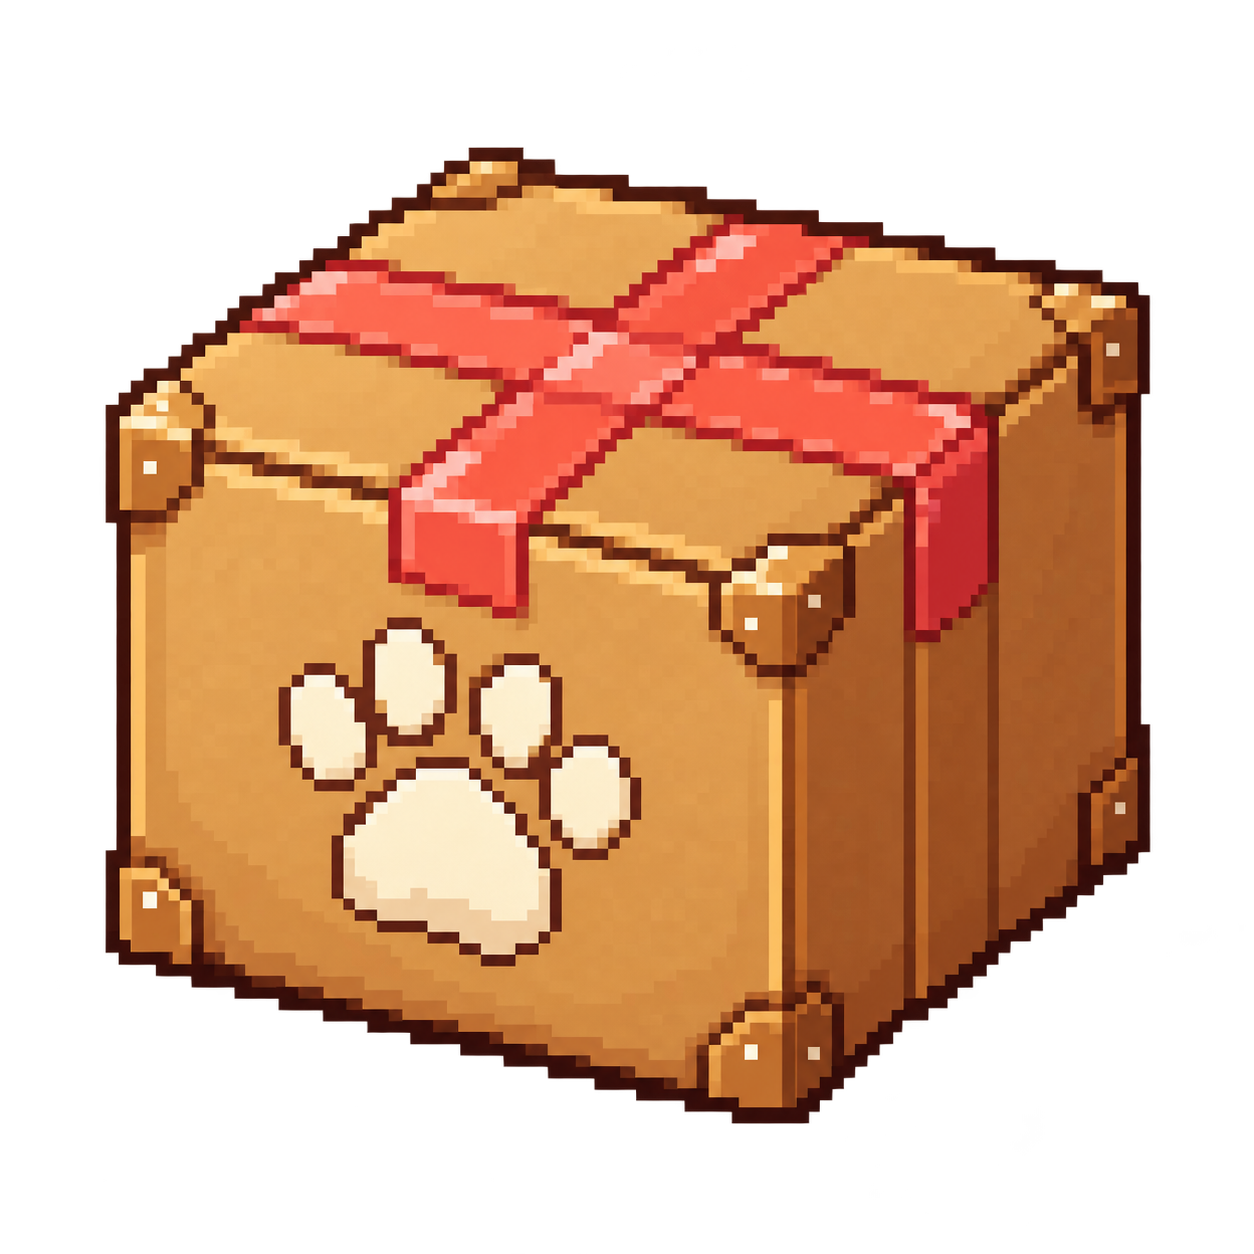
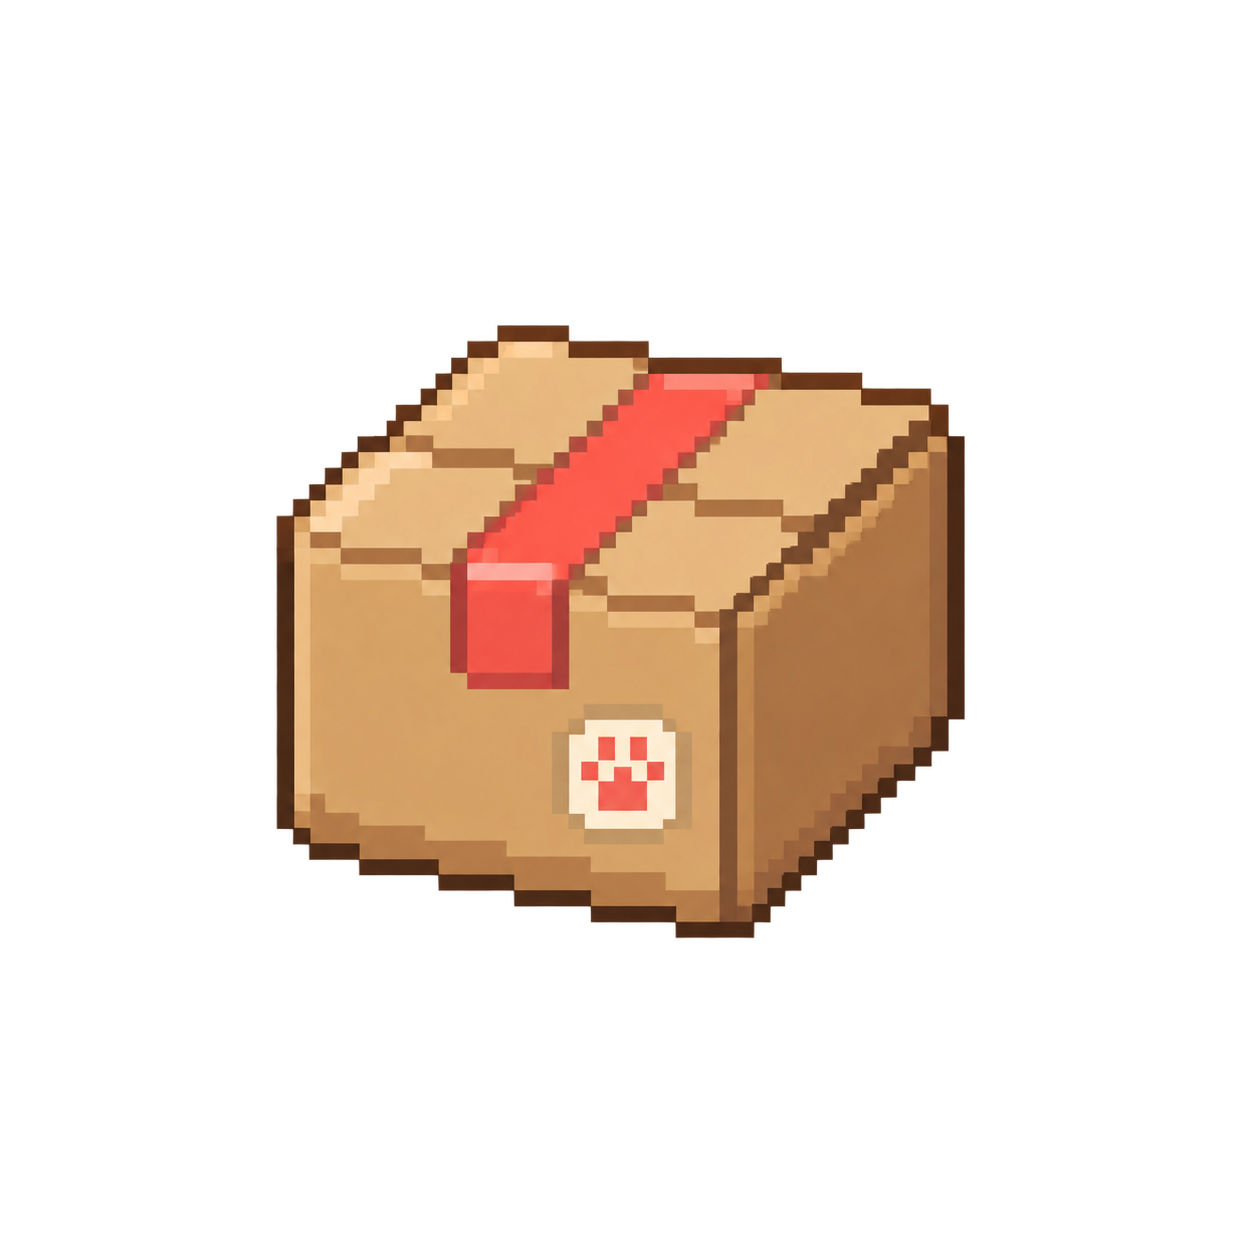
fix: align delivery parcel and growth skill

diff --git a/.codex/skills/growth-pixel-character/SKILL.md b/.codex/skills/growth-pixel-character/SKILL.md
@@ -9,7 +9,6 @@ Produce four independently usable sprites named `baby`, `child`, `teen`, and `ad
 
 Read [references/final-style-contract.md](references/final-style-contract.md) before extracting, generating, or composing a set.
 Read [references/pixel-pet-image-harness.yaml](references/pixel-pet-image-harness.yaml) when generating a new animal, checking cross-species consistency, creating a pet-room background, or building a character-selection popup.
-For pet animation sprites or sprite sheets, also read the animation contract at `../dot-image/references/animation.md` before generating, editing, or accepting frames.
 
 ## Independent Asset Boundary
 
@@ -83,33 +82,6 @@ python .codex/skills/dot-image/scripts/dot_harness.py object pet-food-bowl.png \
   --style-profile auto \
   --theme soft-modern-retro \
   --view side \
-  --preserve-source-palette
-```
-
-## Build Pet Animation Sprites
-
-1. Read `../dot-image/references/animation.md` before creating or editing walk, roll, idle, or other pet animation frames.
-2. Lock the source pet's facing direction before drawing motion. Every source frame must keep the head, torso, hips, near and far limb order, and tail base in that same orientation. Create opposite-paw poses without mirroring an individual frame; flip only the complete sheet or rendered character when runtime movement changes direction.
-3. Preserve the source pet's app cell size and apparent runtime size. For the current native pet assets, keep each frame on the source sprite canvas instead of normalizing to a smaller default grid.
-4. Treat the original pet PNG as the outline reference. Reuse its exact black or tinted-dark contour colors and preserve native contour thickness, connected stepped clusters, limb separation, and silhouette corners whenever a moving part is redrawn.
-5. Save a raw sprite sheet under the selected asset root's `raw/` folder and run the animation harness before copying or wiring the output into app-facing assets. The harness accepts either a plain filename with `--asset-root` or a direct path to the PNG under `raw/`.
-6. Use `--working-grid WIDTHxHEIGHT --scale 1 --size-reference <source-pet.png> --preserve-source-palette` for existing accepted pets so the harness checks the actual app cell size, visible bounds, binary alpha, halo cleanup, and manifest metadata.
-7. Review every clean frame beside and overlaid with the original pet at native size. Automated harness success does not validate anatomical facing or outline topology.
-8. Treat low visible-size ratios, cropped motion, mixed facing directions, mirrored body parts, frame-edge halos, alpha fringing, broken or recolored outlines, or nonmatching frame dimensions as blockers. Fix the raw sheet and rerun the harness rather than accepting the manually edited file.
-
-```bash
-python .codex/skills/dot-image/scripts/dot_harness.py char hamster-baby-roll-spritesheet.png \
-  --asset-root assets/pets/animations \
-  --theme soft-modern-retro \
-  --view front \
-  --frames 4 \
-  --columns 4 \
-  --animation roll \
-  --fps 8 \
-  --anchor bottom-center \
-  --scale 1 \
-  --working-grid 158x158 \
-  --size-reference assets/pets/hamster-baby.png \
   --preserve-source-palette
 ```
 
